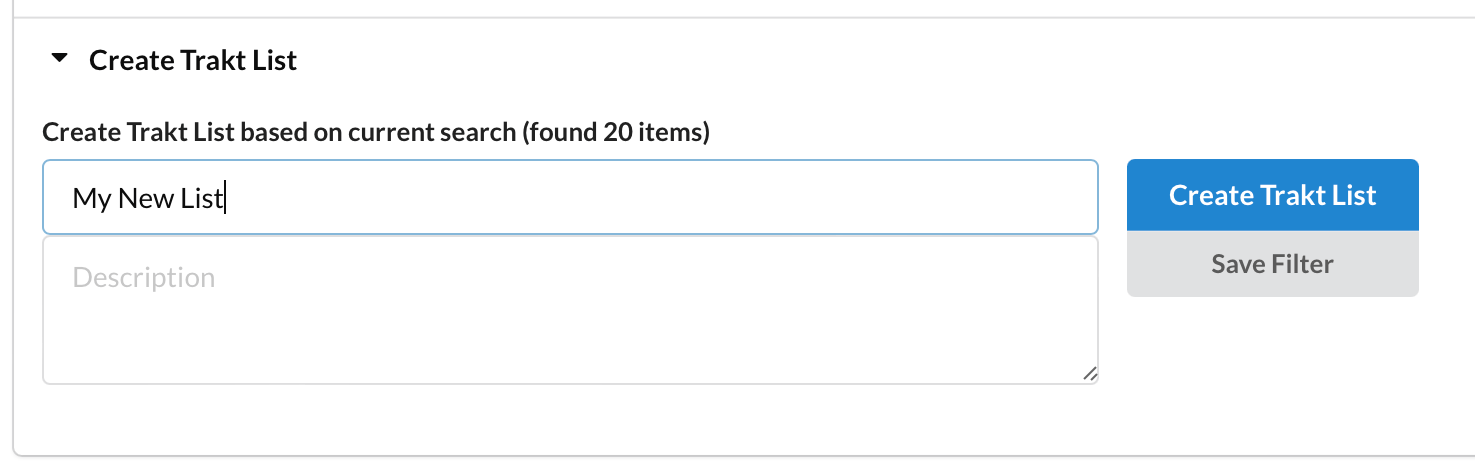
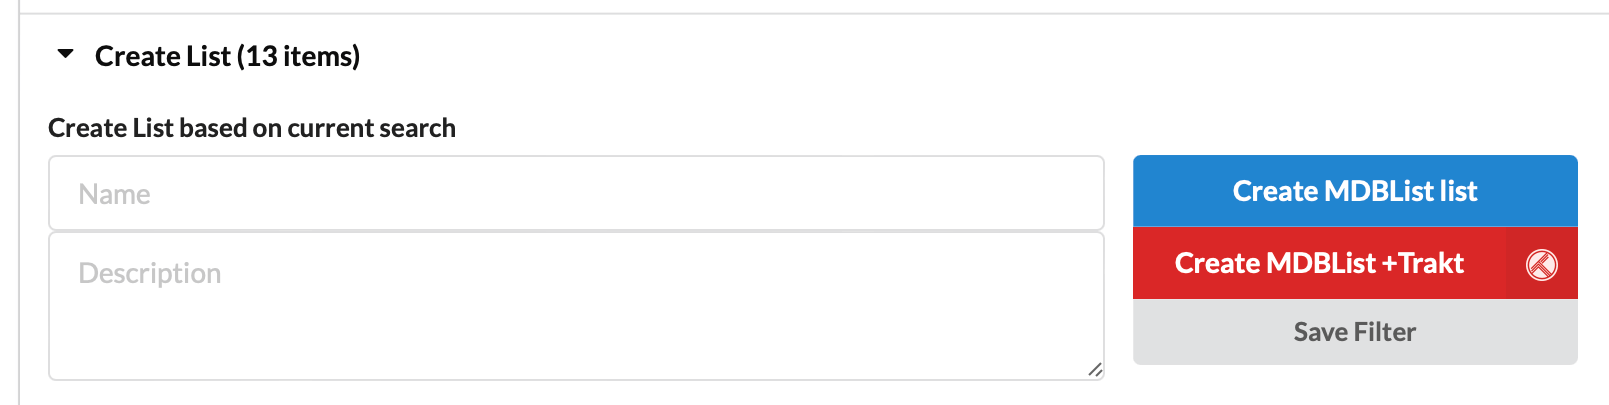
create list update

diff --git a/docs/howto/create_list.md b/docs/howto/create_list.md
@@ -15,12 +15,15 @@ Expand "Create Trakt List" and enter your List name, description and click "Crea
 
 Go to [My Lists](https://mdblist.com/mylists/) to see your new list. Wait for it to populate
 
-![](/assets/images/create_trakt_waiting.png)
+![](/assets/images/lists.png)
 
-![](/assets/images/create_trakt_done.png)
-
-Now you can use your list in different ways:
-- Use list in [Radarr](mdblist_to_radarr)
-- Trakt.tv list
+You can use your lists with:
+- [Radarr](mdblist_to_radarr)
+- [Sonarr](https://sonarr.tv)
+- [Notifiarr](notifiarr) 
+- [PMM](https://github.com/meisnate12/Plex-Meta-Manager)
+- [TheMovieDB Helper](https://github.com/jurialmunkey/plugin.video.themoviedb.helper) for Kodi
+- [Umbrella](https://github.com/umbrellaplug/umbrellaplug.github.io) for Kodi
+- [Trakt.tv](https://trakt.tv/) list
 - RSS Feed for RSS readers like [Feedly](https://feedly.com) or [Inoreader](https://www.inoreader.com/), or automation services like [IFTTT](https://ifttt.com/) or [Zapier](https://zapier.com)
 
